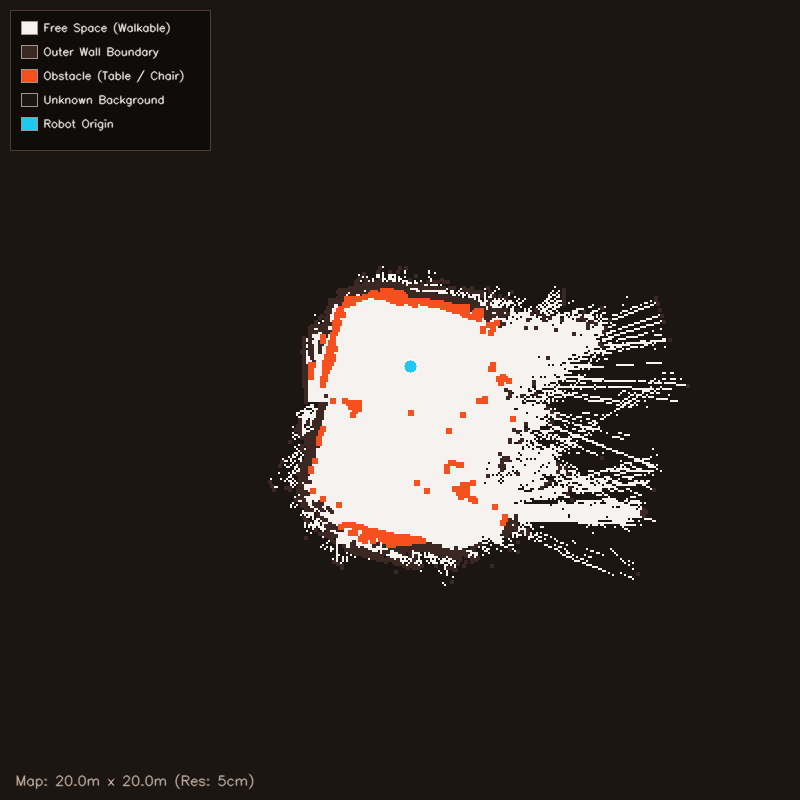
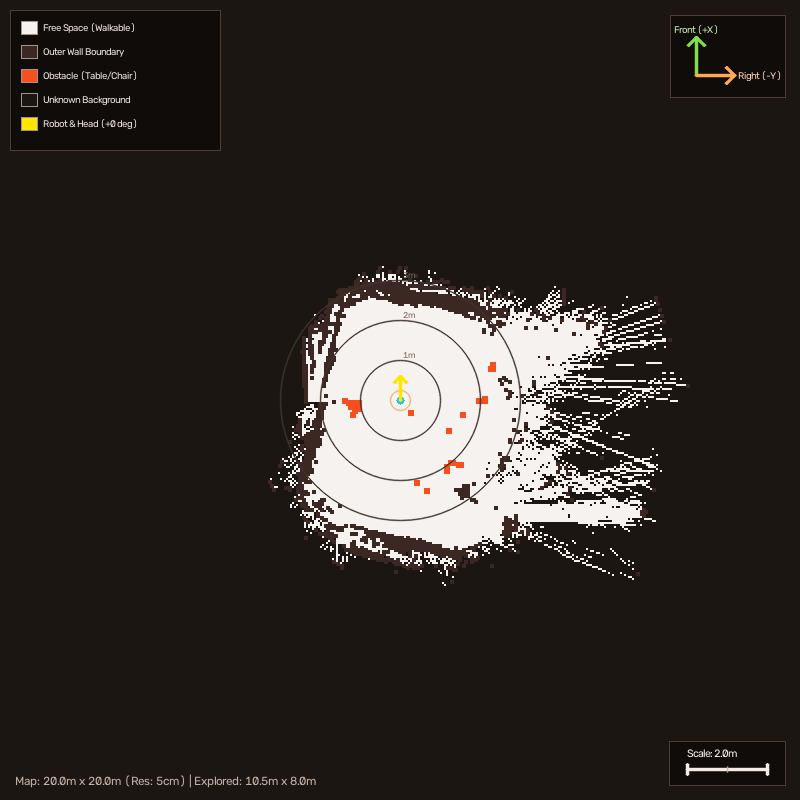
맵에서 벽/장애물 구분

diff --git a/서빙로봇/서빙로봇 소프트웨어/Raspberry Pi_v2/mapper.py b/서빙로봇/서빙로봇 소프트웨어/Raspberry Pi_v2/mapper.py
@@ -518,16 +518,34 @@ class OccupancyMap:
         self.static_grid[valid_free] = CELL_FREE
 
         # [외곽 벽 vs 실내 장애물 기하학적 분리]
-        # 미탐색 영역(Unknown)과 맞닿은 40cm 경계면은 외곽 벽(CELL_WALL), 실내 빈 공간 한가운데 고립된 점들은 장애물(CELL_OBSTACLE)
+        # 미탐색 영역(Unknown)과 맞닿은 60cm 경계면 및 연결된 모든 벽체는 외곽 벽(CELL_WALL),
+        # 실내 빈 공간 한가운데 완전히 고립된 독립 점들만 실내 장애물(CELL_OBSTACLE)로 분류
         try:
             import cv2
             unknown_mask = (self.static_grid == CELL_UNKNOWN) & (~valid_hits) & (~valid_free)
+            # 미탐색 영역 60cm 마진 팽창 (5x5 커널 5회 반복 = 10셀 = 50~60cm)
             kernel = np.ones((5, 5), np.uint8)
-            unknown_dilated = cv2.dilate(unknown_mask.astype(np.uint8), kernel, iterations=2)
+            unknown_dilated = cv2.dilate(unknown_mask.astype(np.uint8), kernel, iterations=5)
             is_outer = (unknown_dilated > 0)
 
-            wall_mask = valid_hits & is_outer
-            obs_mask  = valid_hits & (~is_outer)
+            # 벽면 연결 요소(Connected Components) 분석:
+            # 틈새/유리/몰딩 등으로 끊긴 벽면을 3x3 클로징으로 묶은 후, 외곽 마진과 연결된 모든 벽체는 CELL_WALL로 승격
+            k_conn = np.ones((3, 3), np.uint8)
+            hits_closed = cv2.morphologyEx(valid_hits.astype(np.uint8), cv2.MORPH_CLOSE, k_conn)
+            num_labels, labels, _, _ = cv2.connectedComponentsWithStats(hits_closed, connectivity=8)
+
+            wall_mask = np.zeros_like(valid_hits, dtype=bool)
+            obs_mask  = np.zeros_like(valid_hits, dtype=bool)
+
+            for i in range(1, num_labels):
+                cluster_mask = (labels == i) & valid_hits
+                if not np.any(cluster_mask):
+                    continue
+                # 해당 클러스터의 일부분이라도 외곽 미탐색 마진과 닿아 있으면 외곽 벽체로 판정
+                if np.any(is_outer & (labels == i)):
+                    wall_mask[cluster_mask] = True
+                else:
+                    obs_mask[cluster_mask] = True
 
             self.static_grid[wall_mask] = CELL_WALL
             self.static_grid[obs_mask]  = CELL_OBSTACLE
@@ -545,6 +563,7 @@ class OccupancyMap:
                 height_m=self.height_m,
                 robot_col=self.robot_col,
                 robot_row=self.robot_row,
+                robot_heading=float(self.robot_heading_deg),
                 timestamp=time.time(),
             )
         except Exception as e:
@@ -587,34 +606,107 @@ class OccupancyMap:
             obs_scaled = cv2.resize(obs_dilated, (W * scale, H * scale), interpolation=cv2.INTER_NEAREST)
             rendered[obs_scaled > 0] = (30, 80, 245)
 
-            # 5. 로봇 위치 표시 (원점/현재 위치)
+            # [거리 보조 링] 로봇 원점 기준 1m, 2m, 3m 거리 가이드 링 (연한 보조선)
             rc_x = int(self.robot_col * scale)
             rc_y = int(self.robot_row * scale)
+            px_per_m = int(round(1.0 / self.resolution * scale))
             if 0 <= rc_x < rendered.shape[1] and 0 <= rc_y < rendered.shape[0]:
-                cv2.circle(rendered, (rc_x, rc_y), 6, (240, 200, 30), -1)  # 네온 시안
-                cv2.circle(rendered, (rc_x, rc_y), 8, (255, 255, 255), 1)
+                for dist_m in [1.0, 2.0, 3.0]:
+                    r_px = int(round(dist_m * px_per_m))
+                    cv2.circle(rendered, (rc_x, rc_y), r_px, (42, 50, 64), 1, cv2.LINE_AA)
+                    # 링 상단에 거리 텍스트 살짝 표기
+                    if rc_y - r_px > 10:
+                        cv2.putText(rendered, f"{dist_m:.0f}m", (rc_x + 3, rc_y - r_px - 2),
+                                    cv2.FONT_HERSHEY_SIMPLEX, 0.28, (90, 105, 125), 1, cv2.LINE_AA)
 
-            # 범례(Legend) 추가
+            # 5. 로봇 위치 및 진행 방향(헤딩) 표시
+            if 0 <= rc_x < rendered.shape[1] and 0 <= rc_y < rendered.shape[0]:
+                # 로봇 반경 (약 25cm) 가이드 원
+                body_r = max(4, int(round(0.25 * px_per_m)))
+                cv2.circle(rendered, (rc_x, rc_y), body_r, (100, 180, 240), 1, cv2.LINE_AA)
+                cv2.circle(rendered, (rc_x, rc_y), 4, (240, 200, 30), -1)  # 네온 옐로우 코어
+                cv2.circle(rendered, (rc_x, rc_y), 6, (255, 255, 255), 1)
+
+                # 로봇 헤딩 화살표 (0도=전방/-Y, +90도=우측/+X)
+                rad = math.radians(self.robot_heading_deg)
+                arrow_len = max(24, int(round(0.6 * px_per_m)))  # 약 60cm 길이 화살표
+                tip_x = int(round(rc_x + arrow_len * math.sin(rad)))
+                tip_y = int(round(rc_y - arrow_len * math.cos(rad)))
+                cv2.arrowedLine(rendered, (rc_x, rc_y), (tip_x, tip_y),
+                                (0, 230, 255), 2, tipLength=0.35, line_type=cv2.LINE_AA)
+
+            # 6. 범례(Legend) 추가 (좌측 상단)
             legend_x, legend_y = 15, 15
-            cv2.rectangle(rendered, (legend_x - 5, legend_y - 5), (legend_x + 195, legend_y + 135), (10, 12, 16), -1)
-            cv2.rectangle(rendered, (legend_x - 5, legend_y - 5), (legend_x + 195, legend_y + 135), (50, 60, 80), 1)
+            cv2.rectangle(rendered, (legend_x - 5, legend_y - 5), (legend_x + 205, legend_y + 135), (10, 12, 16), -1)
+            cv2.rectangle(rendered, (legend_x - 5, legend_y - 5), (legend_x + 205, legend_y + 135), (50, 60, 80), 1)
 
+            heading_str = f"{self.robot_heading_deg:+.0f} deg"
             items = [
                 ("Free Space (Walkable)", (240, 242, 245)),
                 ("Outer Wall Boundary", (35, 40, 60)),
-                ("Obstacle (Table / Chair)", (30, 80, 245)),
+                ("Obstacle (Table/Chair)", (30, 80, 245)),
                 ("Unknown Background", (18, 22, 28)),
-                ("Robot Origin", (240, 200, 30)),
+                (f"Robot & Head ({heading_str})", (0, 230, 255)),
             ]
             for i, (label, col) in enumerate(items):
                 iy = legend_y + i * 24 + 14
                 cv2.rectangle(rendered, (legend_x + 6, iy - 8), (legend_x + 22, iy + 5), col, -1)
                 cv2.rectangle(rendered, (legend_x + 6, iy - 8), (legend_x + 22, iy + 5), (140, 150, 160), 1)
-                cv2.putText(rendered, label, (legend_x + 28, iy + 2), cv2.FONT_HERSHEY_SIMPLEX, 0.36, (220, 225, 235), 1, cv2.LINE_AA)
+                cv2.putText(rendered, label, (legend_x + 28, iy + 2),
+                            cv2.FONT_HERSHEY_SIMPLEX, 0.35, (220, 225, 235), 1, cv2.LINE_AA)
 
-            # 해상도 및 크기 정보 표시
-            info_txt = f"Map: {self.width_m:.1f}m x {self.height_m:.1f}m (Res: {self.resolution*100:.0f}cm)"
-            cv2.putText(rendered, info_txt, (15, rendered.shape[0] - 15), cv2.FONT_HERSHEY_SIMPLEX, 0.45, (160, 175, 195), 1, cv2.LINE_AA)
+            # 7. 맵 좌표축 인디케이터 (우측 상단: 로봇 주행 좌표계 기준 ▲ Front +X, ▶ Right -Y)
+            ax_box_w, ax_box_h = 115, 82
+            ax_x0 = rendered.shape[1] - ax_box_w - 15
+            ax_y0 = 15
+            cv2.rectangle(rendered, (ax_x0, ax_y0), (ax_x0 + ax_box_w, ax_y0 + ax_box_h), (10, 12, 16), -1)
+            cv2.rectangle(rendered, (ax_x0, ax_y0), (ax_x0 + ax_box_w, ax_y0 + ax_box_h), (50, 60, 80), 1)
+
+            origin_ax = (ax_x0 + 26, ax_y0 + ax_box_h - 22)
+            # 전방 (직진 / Robot +X) 축
+            cv2.arrowedLine(rendered, origin_ax, (origin_ax[0], origin_ax[1] - 38),
+                            (80, 220, 130), 2, tipLength=0.3, line_type=cv2.LINE_AA)
+            cv2.putText(rendered, "Front (+X)", (origin_ax[0] - 22, origin_ax[1] - 42),
+                        cv2.FONT_HERSHEY_SIMPLEX, 0.32, (180, 235, 200), 1, cv2.LINE_AA)
+            # 우측 (Robot -Y) 축
+            cv2.arrowedLine(rendered, origin_ax, (origin_ax[0] + 38, origin_ax[1]),
+                            (80, 170, 255), 2, tipLength=0.3, line_type=cv2.LINE_AA)
+            cv2.putText(rendered, "Right (-Y)", (origin_ax[0] + 42, origin_ax[1] + 4),
+                        cv2.FONT_HERSHEY_SIMPLEX, 0.32, (180, 210, 255), 1, cv2.LINE_AA)
+
+            # 8. 거리 스케일 바 (우측 하단: 1.0m 또는 2.0m 축척 바)
+            scale_bar_m = 2.0 if (px_per_m * 2 <= 160) else 1.0
+            bar_len_px = int(scale_bar_m * px_per_m)
+            sb_w, sb_h = bar_len_px + 36, 44
+            sb_x0 = rendered.shape[1] - sb_w - 15
+            sb_y0 = rendered.shape[0] - sb_h - 15
+            cv2.rectangle(rendered, (sb_x0, sb_y0), (sb_x0 + sb_w, sb_y0 + sb_h), (10, 12, 16), -1)
+            cv2.rectangle(rendered, (sb_x0, sb_y0), (sb_x0 + sb_w, sb_y0 + sb_h), (50, 60, 80), 1)
+
+            bx1 = sb_x0 + 18
+            bx2 = bx1 + bar_len_px
+            by = sb_y0 + 28
+            # 스케일 바 라인 및 눈금 틱
+            cv2.line(rendered, (bx1, by), (bx2, by), (230, 235, 245), 2, cv2.LINE_AA)
+            cv2.line(rendered, (bx1, by - 5), (bx1, by + 5), (230, 235, 245), 2, cv2.LINE_AA)
+            cv2.line(rendered, (bx2, by - 5), (bx2, by + 5), (230, 235, 245), 2, cv2.LINE_AA)
+            cv2.line(rendered, ((bx1 + bx2) // 2, by - 3), ((bx1 + bx2) // 2, by + 3), (160, 175, 190), 1, cv2.LINE_AA)
+            cv2.putText(rendered, f"Scale: {scale_bar_m:.1f}m", (bx1, sb_y0 + 16),
+                        cv2.FONT_HERSHEY_SIMPLEX, 0.38, (230, 235, 245), 1, cv2.LINE_AA)
+
+            # 9. 실제 탐색 영역 바운딩 박스 및 하단 상세 정보
+            explored_mask = (self.static_grid != CELL_UNKNOWN)
+            if np.any(explored_mask):
+                rows, cols = np.where(explored_mask)
+                w_m = (np.max(cols) - np.min(cols) + 1) * self.resolution
+                h_m = (np.max(rows) - np.min(rows) + 1) * self.resolution
+                exp_txt = f" | Explored: {w_m:.1f}m x {h_m:.1f}m"
+            else:
+                exp_txt = ""
+
+            info_txt = f"Map: {self.width_m:.1f}m x {self.height_m:.1f}m (Res: {self.resolution*100:.0f}cm){exp_txt}"
+            cv2.putText(rendered, info_txt, (15, rendered.shape[0] - 15),
+                        cv2.FONT_HERSHEY_SIMPLEX, 0.42, (160, 175, 195), 1, cv2.LINE_AA)
 
             # Windows 한글 경로 호환을 위해 imencode 후 tofile 로 저장
             is_ok, buf = cv2.imencode(".png", rendered)
@@ -643,10 +735,15 @@ class OccupancyMap:
                     self.hit_count[:] = data["hit_count"]
                 if "free_count" in data:
                     self.free_count[:] = data["free_count"]
+                if "robot_col" in data and "robot_row" in data:
+                    self.robot_col = int(data["robot_col"])
+                    self.robot_row = int(data["robot_row"])
+                if "robot_heading" in data:
+                    self.robot_heading_deg = float(data["robot_heading"])
                 loaded_now = time.time()
                 self.last_hit_time[:] = loaded_now   # 메모리 보호 시간 갱신
                 self.first_hit_time[:] = loaded_now  # 불러온 셀이 시간 폭 조건을 거저 통과하지 않도록
-                _safe_print(f"[OccupancyMap] 📂 맵 불러오기 성공: {filepath} (크기: {self.grid.shape})")
+                _safe_print(f"[OccupancyMap] 📂 맵 불러오기 성공: {filepath} (크기: {self.grid.shape}, 로봇 헤딩: {self.robot_heading_deg:+.1f} deg)")
                 return True
             else:
                 _safe_print(f"[OccupancyMap] ⚠ 맵 격자 해상도/크기 불일치 (현재: {self.grid.shape}, 로드: {loaded_grid.shape})")

diff --git a/서빙로봇/서빙로봇 소프트웨어/Raspberry Pi_v2/visualize_saved_map.py b/서빙로봇/서빙로봇 소프트웨어/Raspberry Pi_v2/visualize_saved_map.py
@@ -2,12 +2,21 @@
 visualize_saved_map.py
 saved_map.npz 맵 데이터 분석 및 고대비 컬러 시각화 도구
 """
+# cd "c:\GitHub\JeoninHighSchool\서빙로봇\서빙로봇 소프트웨어\Raspberry Pi_v2"
+# .\.venv\Scripts\python.exe visualize_saved_map.py
 
 import os
 import sys
 import numpy as np
 import cv2
-from mapper import OccupancyMap, CELL_UNKNOWN, CELL_FREE, CELL_WALL, CELL_OBSTACLE, CELL_GLASS_WALL
+from mapper import (
+    OccupancyMap,
+    CELL_UNKNOWN,
+    CELL_FREE,
+    CELL_WALL,
+    CELL_OBSTACLE,
+    CELL_GLASS_WALL,
+)
 from console_utils import safe_print
 
 
@@ -40,7 +49,7 @@ def main():
     unknown_cells = int(np.sum(grid == CELL_UNKNOWN))
 
     # 탐색된 영역 바운딩 박스
-    explored_mask = (grid != CELL_UNKNOWN)
+    explored_mask = grid != CELL_UNKNOWN
     if np.any(explored_mask):
         rows, cols = np.where(explored_mask)
         w_m = (np.max(cols) - np.min(cols) + 1) * res
@@ -51,11 +60,17 @@ def main():
     safe_print("=" * 60)
     safe_print("        [saved_map.npz 맵 정밀 분석 및 시각화 결과]")
     safe_print("=" * 60)
-    safe_print(f" * 전체 격자 규격     : {grid.shape[1]} x {grid.shape[0]} 셀 (20.0m x 20.0m, 해상도 {res*100:.0f}cm/셀)")
+    safe_print(
+        f" * 전체 격자 규격     : {grid.shape[1]} x {grid.shape[0]} 셀 (20.0m x 20.0m, 해상도 {res * 100:.0f}cm/셀)"
+    )
     safe_print(f" * 실제 탐색 바운딩박스 : 가로 {w_m:.2f}m x 세로 {h_m:.2f}m")
-    safe_print(f" * 주행 가능 빈 공간   : {free_cells} 셀 ({free_cells * (res**2):.2f} m^2)")
+    safe_print(
+        f" * 주행 가능 빈 공간   : {free_cells} 셀 ({free_cells * (res**2):.2f} m^2)"
+    )
     safe_print(f" * 감지된 벽(경계)     : {wall_cells} 셀")
-    safe_print(f" * 미탐색 배경 구역    : {unknown_cells} 셀 ({unknown_cells / total_cells * 100:.1f}%)")
+    safe_print(
+        f" * 미탐색 배경 구역    : {unknown_cells} 셀 ({unknown_cells / total_cells * 100:.1f}%)"
+    )
     safe_print(f" * 고대비 컬러 이미지  : saved_map.png 저장 완료!")
     safe_print("=" * 60)
 
